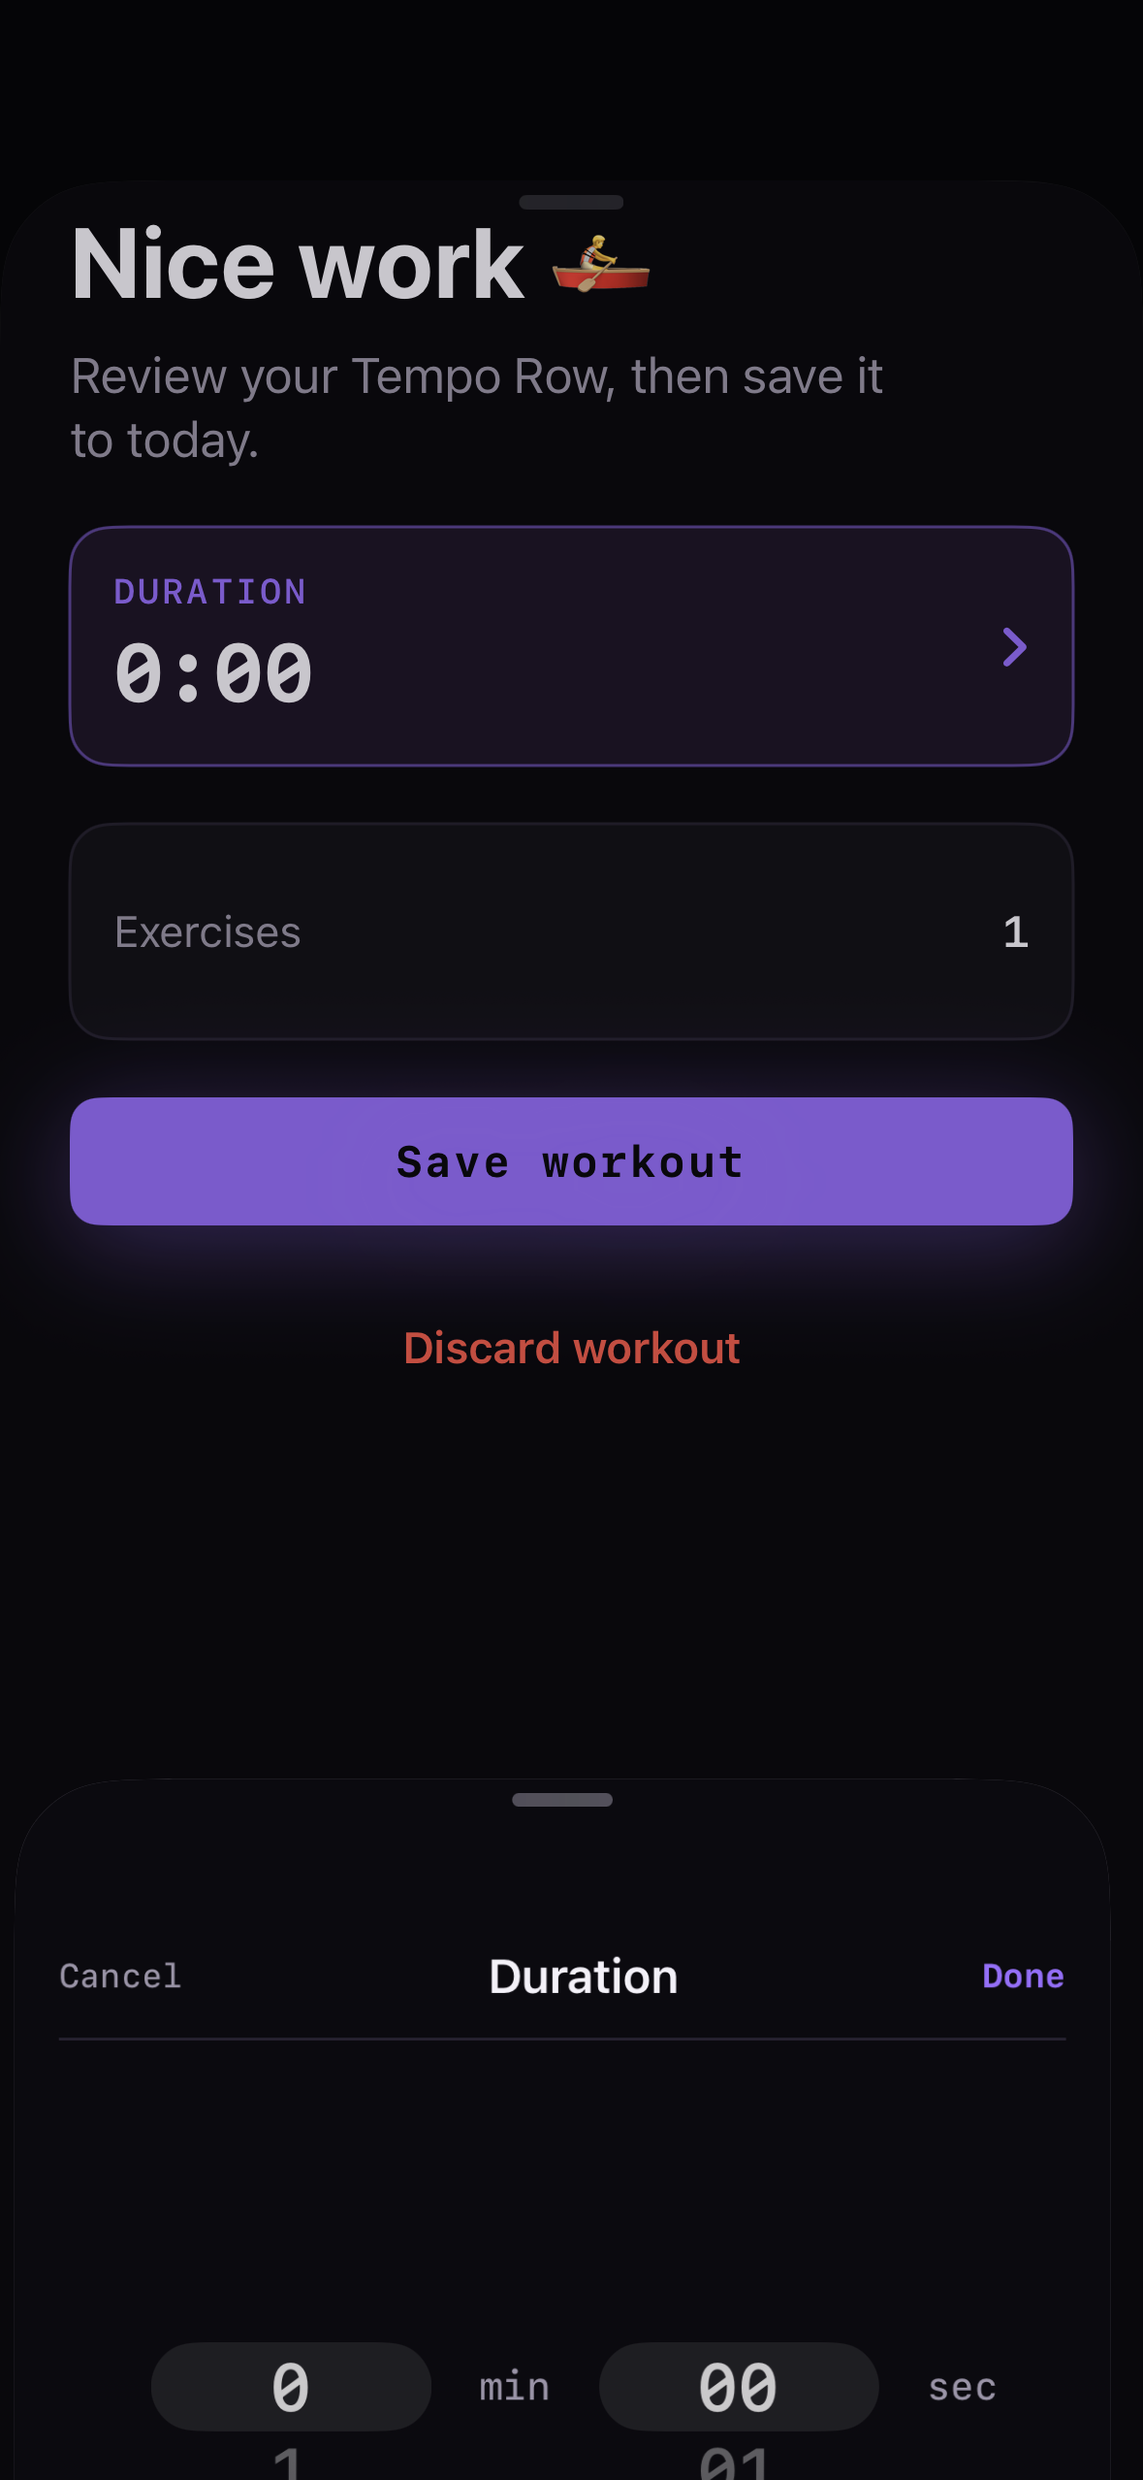
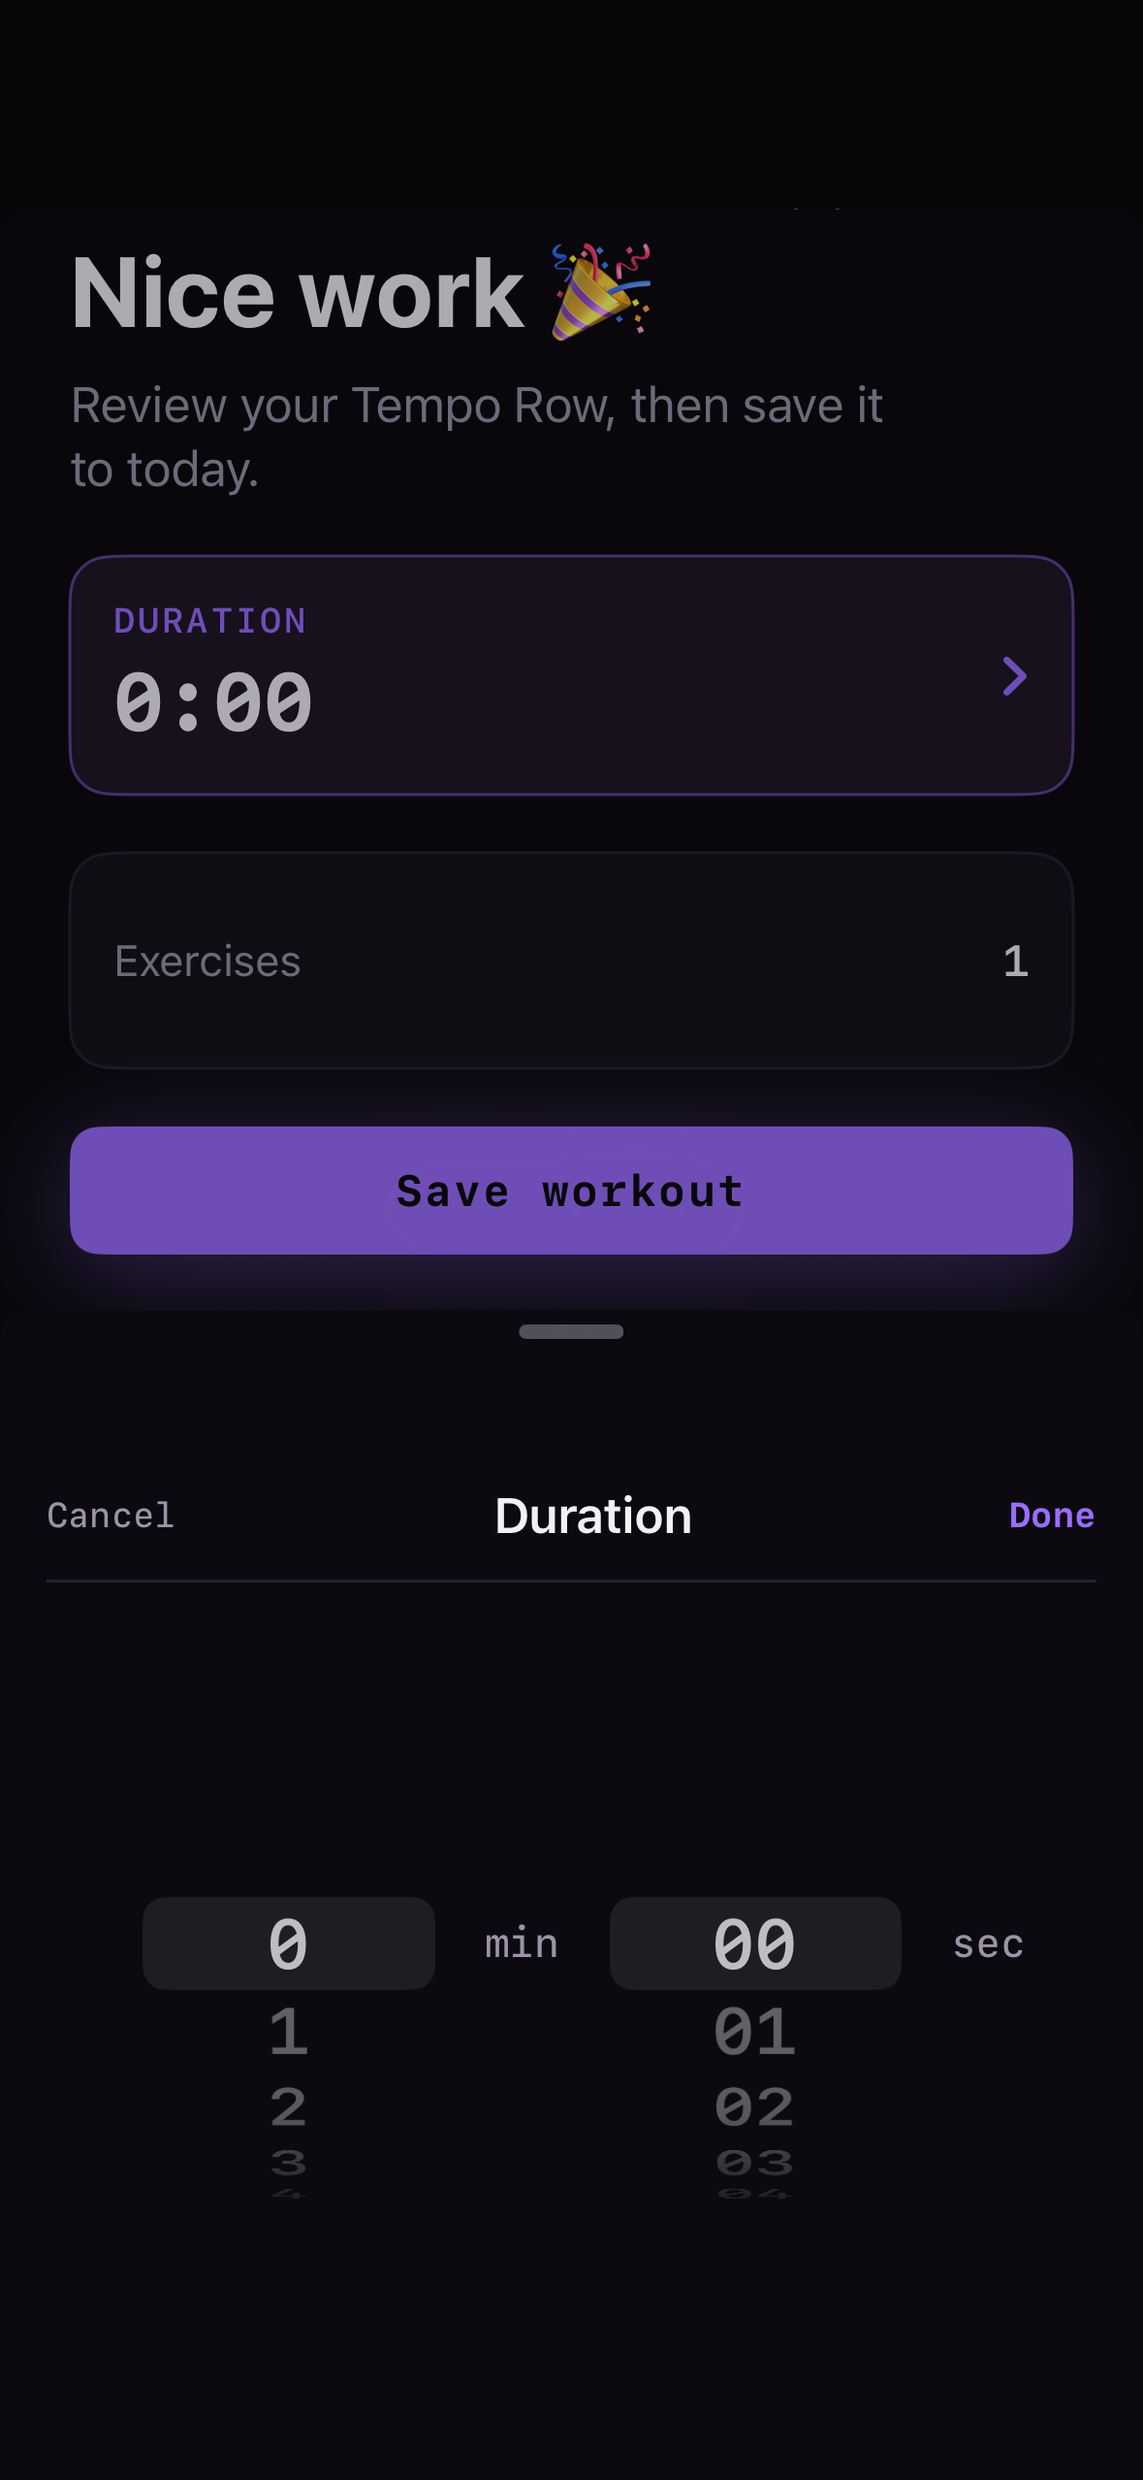
no-mistakes(review): address review findings in workout finish flow

diff --git a/Baseline/Features/Workout/WorkoutView.swift b/Baseline/Features/Workout/WorkoutView.swift
@@ -34,6 +34,9 @@ struct WorkoutView: View {
     @State private var finishDurationSeconds: TimeInterval = 0
     @State private var finishHeartRate: WorkoutHeartRateCapture?
     @State private var showDiscardConfirmation = false
+    /// Set when Discard is chosen inside the finish review; the review's `onDismiss` raises the
+    /// confirmation alert once the sheet is actually gone.
+    @State private var pendingDiscardFromFinishReview = false
     @State private var showSaveTemplate = false
     @State private var templateName = ""
     @State private var templateConflict: WorkoutTemplate?
@@ -91,10 +94,19 @@ struct WorkoutView: View {
         }
         .sheet(isPresented: $showFinishReview, onDismiss: {
             finishHeartRate = nil
+            // The discard confirmation is an alert, and SwiftUI cannot raise one while the review
+            // sheet is still on screen — so it waits here, where the dismissal has actually finished.
+            if pendingDiscardFromFinishReview {
+                pendingDiscardFromFinishReview = false
+                showDiscardConfirmation = true
+            }
         }) {
             if let workout = store.current,
-               let log = store.currentLog,
-               let startedAt = store.currentLogStartedAt {
+               let log = store.currentLog {
+                // Only the elapsed-time fallback needs the start instant, and the review always
+                // supplies a confirmed duration — so a missing start instant must never withhold the
+                // review, or the athlete would be left with no way to finish the session.
+                let startedAt = store.currentLogStartedAt ?? finishInstant
                 let units = ShareUnitResolver(workout: workout, store: store)
                 WorkoutFinishSheet(
                     workoutTitle: workout.title,
@@ -620,12 +632,16 @@ struct WorkoutView: View {
     /// Capture the finish boundary before review so time spent editing duration does not inflate the
     /// actual persisted finish timestamp or the initial duration.
     private func beginFinishing() {
-        guard let startedAt = store.currentLogStartedAt else { return }
         finishInstant = Date()
-        finishDurationSeconds = min(
-            max(0, finishInstant.timeIntervalSince(startedAt)),
-            MetricFormat.maxDurationSeconds
-        ).rounded()
+        // A session whose start instant failed to restore still has to be finishable; it simply opens
+        // the review at zero for the athlete to set. Clamped to the picker's own ceiling so the value
+        // the review shows is always one the wheels can express.
+        finishDurationSeconds = store.currentLogStartedAt.map {
+            min(
+                max(0, finishInstant.timeIntervalSince($0)),
+                WorkoutDurationPickerSheet.maxSelectableSeconds
+            ).rounded()
+        } ?? 0
         // Read the monitor while it is still alive. Saving flips `mode` to `.completed`, which tears
         // it down along with every zone-second it accumulated.
         finishHeartRate = hrMonitor.flatMap {
@@ -648,11 +664,8 @@ struct WorkoutView: View {
     }
 
     private func requestDiscardFromFinishReview() {
+        pendingDiscardFromFinishReview = true
         showFinishReview = false
-        Task { @MainActor in
-            await Task.yield()
-            showDiscardConfirmation = true
-        }
     }
 
     // MARK: - Templates

diff --git a/Baseline/Shared/Settings/WorkoutStore.swift b/Baseline/Shared/Settings/WorkoutStore.swift
@@ -117,7 +117,10 @@ final class WorkoutStore {
         let undoMutation: (UUID, UUID) -> WorkoutMutationResult
         let undoSessionMutation: (UUID, UUID) -> WorkoutMutationResult
         let start: () -> Void                         // begin the session in the plan
-        let complete: (Date, TimeInterval?) -> Void  // freeze the completed log
+        /// Freeze the completed log at the captured finish instant, with the athlete-confirmed
+        /// duration when one was chosen. Both arguments are required of every sink so neither the
+        /// instant nor the duration can be silently dropped by a sink that forgets them.
+        let complete: (Date, TimeInterval?) -> Void
         let discard: () -> Void
         /// The session's own record of whether its promotion decision is still unanswered — one shared
         /// answer for every store bound to this scheduled workout.
@@ -148,8 +151,7 @@ final class WorkoutStore {
             undoMutation: ((UUID, UUID) -> WorkoutMutationResult)? = nil,
             undoSessionMutation: ((UUID, UUID) -> WorkoutMutationResult)? = nil,
             start: @escaping () -> Void,
-            complete: @escaping () -> Void,
-            completeAt: ((Date, TimeInterval?) -> Void)? = nil,
+            complete: @escaping (Date, TimeInterval?) -> Void,
             discard: @escaping () -> Void,
             isSessionDecisionPending: @escaping () -> Bool,
             resolveSessionDecision: @escaping () -> Void,
@@ -216,7 +218,7 @@ final class WorkoutStore {
             self.undoMutation = undoMutation ?? { _, _ in .rejected(.undoUnavailable) }
             self.undoSessionMutation = undoSessionMutation ?? { _, _ in .rejected(.undoUnavailable) }
             self.start = start
-            self.complete = completeAt ?? { _, _ in complete() }
+            self.complete = complete
             self.discard = discard
             self.isSessionDecisionPending = isSessionDecisionPending
             self.resolveSessionDecision = resolveSessionDecision

diff --git a/BaselineTests/ToolCallMapperTests.swift b/BaselineTests/ToolCallMapperTests.swift
@@ -863,6 +863,42 @@ struct ToolCallMapperTests {
         ]) == nil)
     }
 
+    /// Every unit the athlete can pick for pace must also be expressible through the agent facade,
+    /// or a rower who asks for "pace per 500" gets a rejected tool call for a setting the picker
+    /// already offers.
+    @Test func mapsEveryAthleteSelectablePaceUnit() throws {
+        let revision = try #require(UUID(uuidString: "aaaaaaaa-aaaa-aaaa-aaaa-aaaaaaaaaaaa"))
+        let exerciseID = try #require(UUID(uuidString: "bbbbbbbb-bbbb-bbbb-bbbb-bbbbbbbbbbbb"))
+
+        for (spelling, expected) in [
+            ("/500m", MetricUnit.secondsPer500Meters),
+            ("per 500m", .secondsPer500Meters),
+            ("min/500m", .secondsPer500Meters),
+            ("/km", .secondsPerKilometer),
+            ("/mi", .secondsPerMile),
+        ] {
+            #expect(ToolCallMapper.map(name: "update_logging_config", input: [
+                "exercise_instance_id": exerciseID.uuidString,
+                "enabled_metrics": ["duration", "pace"],
+                "pace_unit": spelling,
+                "expected_revision_token": revision.uuidString,
+            ]) == .updateLoggingConfig(
+                exerciseInstanceID: exerciseID,
+                enabledMetrics: [.duration, .pace],
+                units: [.pace: expected],
+                expectedRevisionToken: revision
+            ), "pace_unit \(spelling)")
+        }
+
+        // Nothing outside the athlete-selectable set is invented.
+        #expect(ToolCallMapper.map(name: "update_logging_config", input: [
+            "exercise_instance_id": exerciseID.uuidString,
+            "enabled_metrics": ["pace"],
+            "pace_unit": "/400m",
+            "expected_revision_token": revision.uuidString,
+        ]) == nil)
+    }
+
     @Test func mapsBulkReplaceExercisesWithDryRunAsTheDefault() throws {
         let revision = try #require(UUID(uuidString: "aaaaaaaa-aaaa-aaaa-aaaa-aaaaaaaaaaaa"))
 

diff --git a/Baseline/Features/Workout/WorkoutDurationPickerSheet.swift b/Baseline/Features/Workout/WorkoutDurationPickerSheet.swift
@@ -6,7 +6,15 @@ import SwiftUI
 struct WorkoutDurationPickerSheet: View {
     @Environment(\.dismiss) private var dismiss
 
-    let durationSeconds: TimeInterval
+    /// The wheels top out at 24 hours. `.pickerStyle(.wheel)` bridges to `UIPickerView` and builds
+    /// every row view when the sheet opens, so the range has to be a duration an athlete can
+    /// plausibly select rather than the full `MetricFormat.maxDurationSeconds` span of a week — that
+    /// would be ten thousand styled rows per presentation. It also keeps the largest selectable
+    /// value well inside the canonical ceiling, so nothing the wheels display is silently clamped on
+    /// the way to storage.
+    static let maxMinutes = 1_440
+    static let maxSelectableSeconds = TimeInterval(maxMinutes * 60)
+
     let onDone: (TimeInterval) -> Void
 
     @State private var minutes: Int
@@ -14,9 +22,8 @@ struct WorkoutDurationPickerSheet: View {
 
     init(durationSeconds: TimeInterval, onDone: @escaping (TimeInterval) -> Void) {
         let safeDuration = Int(
-            min(max(0, durationSeconds), MetricFormat.maxDurationSeconds).rounded()
+            min(max(0, durationSeconds), Self.maxSelectableSeconds).rounded()
         )
-        self.durationSeconds = durationSeconds
         self.onDone = onDone
         _minutes = State(initialValue: safeDuration / 60)
         _seconds = State(initialValue: safeDuration % 60)
@@ -54,7 +61,7 @@ struct WorkoutDurationPickerSheet: View {
 
                 HStack(spacing: BaselineSpacing.xSmall) {
                     Picker("Minutes", selection: $minutes) {
-                        ForEach(0...10_080, id: \.self) { value in
+                        ForEach(0...Self.maxMinutes, id: \.self) { value in
                             Text("\(value)")
                                 .font(.bMono(24, .semibold))
                                 .tag(value)

diff --git a/BaselineTests/WorkoutLoggingCleanupRenderTests.swift b/BaselineTests/WorkoutLoggingCleanupRenderTests.swift
@@ -64,6 +64,33 @@ struct WorkoutLoggingCleanupRenderTests {
                 .resolve(.duration)?.value == "24m"
         )
     }
+
+    /// Discard inside the review is a sheet-to-alert handoff, which SwiftUI refuses while the sheet is
+    /// still on screen. Without the deferral the athlete taps Discard and nothing happens at all.
+    @Test func discardingFromTheFinishReviewRaisesTheConfirmation() async throws {
+        let screen = try await LoggingCleanupScreen()
+        defer { screen.tearDown() }
+
+        #expect(screen.activate(labelled: "Finish"))
+        try await screen.settle()
+        #expect(screen.hasLabel(containing: "Discard workout"))
+        #expect(screen.activate(labelled: "Discard workout"))
+        try await screen.settleUntil { screen.hasLabel(containing: "Discard Log") }
+
+        #expect(screen.hasLabel(containing: "Save workout") == false)
+        try await screen.tapAlertButton("Discard Log")
+        #expect(screen.hasLiveLog == false)
+        #expect(screen.completed == nil)
+    }
+
+    /// The wheels are bounded, so the largest duration they can express has to stay inside the
+    /// canonical ceiling — otherwise the picker shows a value storage silently clamps.
+    @Test func theDurationPickerCannotSelectMoreThanTheCanonicalCeiling() {
+        let largest = WorkoutDurationPickerSheet.maxSelectableSeconds + 59
+        #expect(largest < MetricFormat.maxDurationSeconds)
+        #expect(WorkoutDurationPickerSheet.maxSelectableSeconds
+            == TimeInterval(WorkoutDurationPickerSheet.maxMinutes * 60))
+    }
 }
 
 @MainActor
@@ -165,6 +192,10 @@ private final class LoggingCleanupScreen: HostedScreen {
 
     var storeDurationSeconds: TimeInterval? {
         store.currentLogDurationSeconds
+    }
+
+    var hasLiveLog: Bool {
+        store.currentLog != nil
     }
 
     var shareUnits: ShareUnitResolver {

diff --git a/BaselineTests/TestScreenSupport.swift b/BaselineTests/TestScreenSupport.swift
@@ -104,6 +104,32 @@ extension HostedScreen {
         return true
     }
 
+    /// The presented alert, if any — SwiftUI's `.alert` is a `UIAlertController` presented over the
+    /// hosting controller.
+    var presentedAlert: UIAlertController? {
+        var controller = window.rootViewController
+        while let presented = controller?.presentedViewController {
+            if let alert = presented as? UIAlertController { return alert }
+            controller = presented
+        }
+        return nil
+    }
+
+    /// Tap an alert button. `accessibilityActivate()` is a no-op on `UIAlertController` action views,
+    /// so the button's own handler — the SwiftUI `Button` action, i.e. the product code — is invoked
+    /// directly and the alert is dismissed the way the system would.
+    func tapAlertButton(_ title: String) async throws {
+        let alert = try #require(presentedAlert, "No alert on screen when tapping \"\(title)\".")
+        let action = try #require(alert.actions.first { $0.title == title },
+                                  "Alert has no \"\(title)\" button (buttons: \(alert.actions.compactMap(\.title))).")
+        typealias Handler = @convention(block) (UIAlertAction) -> Void
+        if let block = action.value(forKey: "handler") {
+            unsafeBitCast(block as AnyObject, to: Handler.self)(action)
+        }
+        alert.presentingViewController?.dismiss(animated: false)
+        try await settle()
+    }
+
     func settle() async throws {
         let deadline = Date().addingTimeInterval(1)
         while Date() < deadline {

diff --git a/Baseline/Features/Workout/WorkoutDetailView.swift b/Baseline/Features/Workout/WorkoutDetailView.swift
@@ -387,12 +387,17 @@ struct WorkoutDetailView: View {
     }
 
     private func detailDuration(_ scheduled: ScheduledWorkout) -> String {
-        if let session = snapshot?.session, let completed = snapshot?.completed {
+        if let completed = snapshot?.completed {
+            // The athlete-confirmed duration is a performed fact carried by the completed record
+            // itself, so it stands whether or not the session row survived alongside it. Only the
+            // elapsed-time fallback needs the session's start instant.
             if let duration = completed.durationSeconds {
                 return MetricFormat.durationLong(duration)
             }
-            let elapsed = completed.finishedAt.timeIntervalSince(session.startedAt)
-            if elapsed >= 60 { return MetricFormat.durationLong(elapsed) }
+            if let session = snapshot?.session {
+                let elapsed = completed.finishedAt.timeIntervalSince(session.startedAt)
+                if elapsed >= 60 { return MetricFormat.durationLong(elapsed) }
+            }
         }
         let duration = AggregateProvider.aggregates(for: [scheduled]).first { $0.key == .duration }?.total ?? 0
         return duration > 0 ? MetricFormat.durationLong(duration) : "Planned"

diff --git a/Baseline/Shared/Services/ToolCallMapper.swift b/Baseline/Shared/Services/ToolCallMapper.swift
@@ -1271,6 +1271,7 @@ enum ToolCallMapper {
         switch normalize(rawValue) {
         case "km", "perkm", "minkm", "secondsperkilometer": return .secondsPerKilometer
         case "mi", "permile", "minmi", "secondspermile": return .secondsPerMile
+        case "500m", "per500m", "per500", "min500m", "secondsper500meters": return .secondsPer500Meters
         case "sm", "secondspermeter": return .secondsPerMeter
         default: return nil
         }
@@ -1284,6 +1285,7 @@ enum ToolCallMapper {
         switch normalize(s) {
         case "minkm", "minperkm", "minutesperkilometer": return (.secondsPerKilometer, 60)
         case "minmi", "minpermile", "minutespermile": return (.secondsPerMile, 60)
+        case "min500m", "minper500m", "minutesper500meters": return (.secondsPer500Meters, 60)
         default: return unit(s).map { ($0, 1) }
         }
     }

diff --git a/Baseline/Shared/Settings/PlanStore.swift b/Baseline/Shared/Settings/PlanStore.swift
@@ -286,8 +286,7 @@ final class PlanStore {
                 ) ?? .rejected(.notFound)
             },
             start: { [weak self] in _ = self?.start(id) },
-            complete: { [weak self] in _ = self?.complete(id, acknowledgingOpenWork: true) },
-            completeAt: { [weak self] finishedAt, durationSeconds in
+            complete: { [weak self] finishedAt, durationSeconds in
                 _ = self?.complete(
                     id,
                     acknowledgingOpenWork: true,

diff --git a/BaselineTests/WorkoutSessionEditingTests.swift b/BaselineTests/WorkoutSessionEditingTests.swift
@@ -729,7 +729,7 @@ struct WorkoutSessionEditingTests {
             pushWorkout: { pushes.workouts.append($0) },
             pushSessionWorkout: { _ in },
             pushLog: { _ in },
-            start: {}, complete: {}, discard: {},
+            start: {}, complete: { _, _ in }, discard: {},
             isSessionDecisionPending: { false },
             resolveSessionDecision: {},
             resolveAbandonedSessionDecision: {},

diff --git a/Baseline/Features/Workout/WorkoutFinishSheet.swift b/Baseline/Features/Workout/WorkoutFinishSheet.swift
@@ -49,7 +49,7 @@ struct WorkoutFinishSheet: View {
 
     private var header: some View {
         VStack(alignment: .leading, spacing: BaselineSpacing.xSmall) {
-            Text("Nice work 🚣")
+            Text("Nice work 🎉")
                 .font(.largeTitle.bold())
                 .foregroundStyle(BaselineColor.textHi)
 
